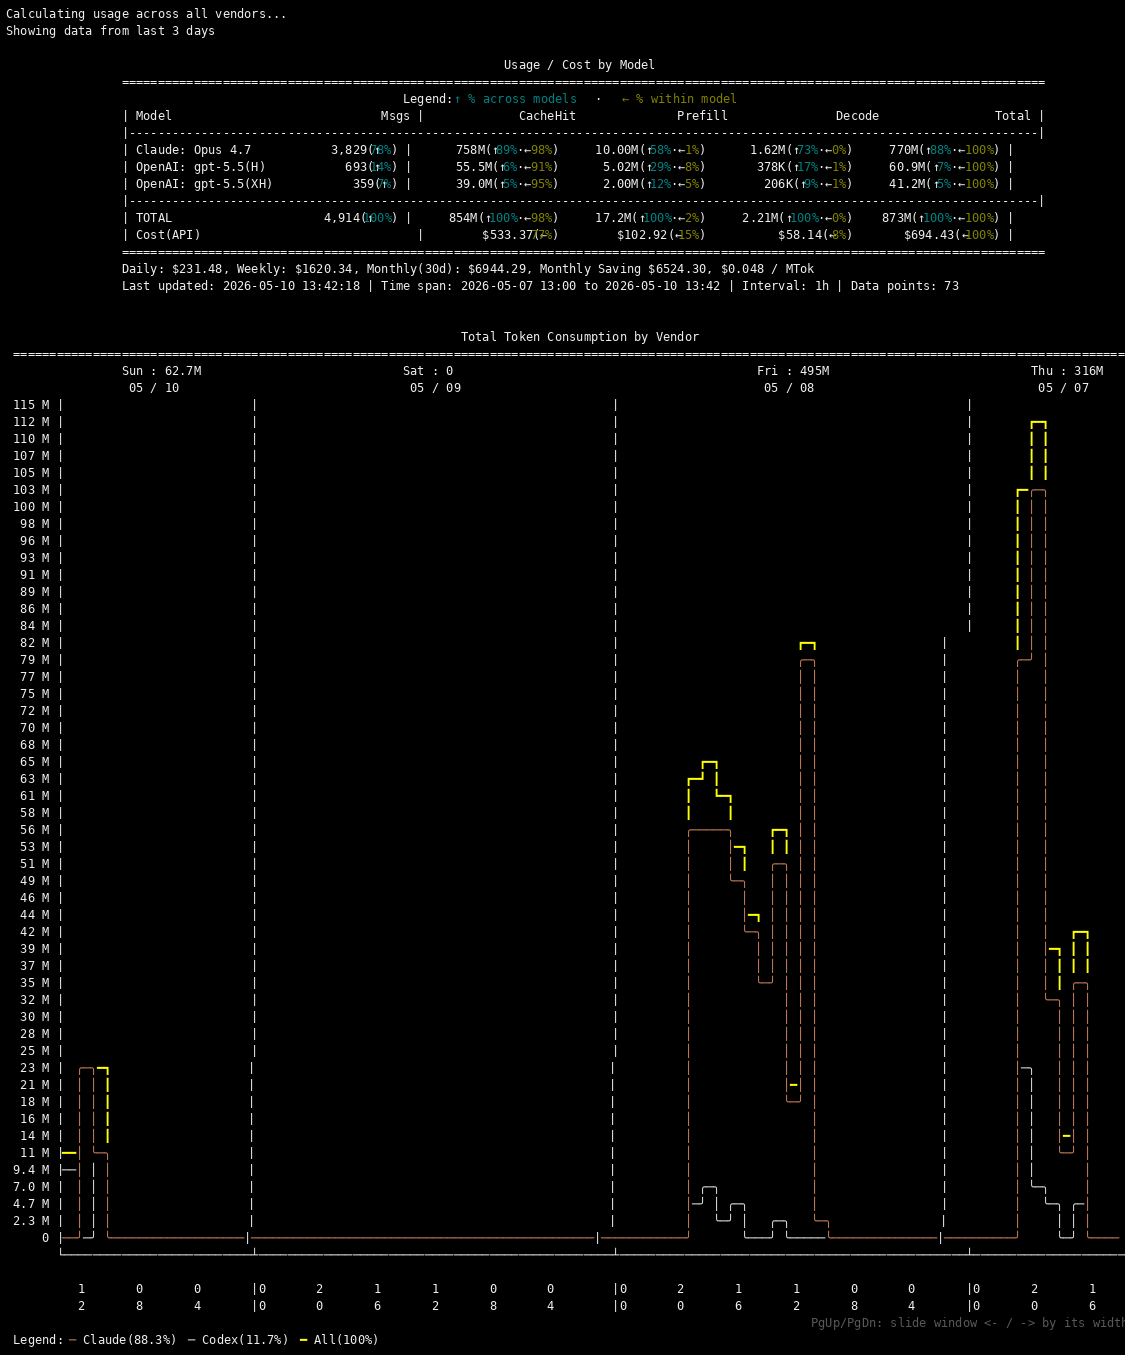
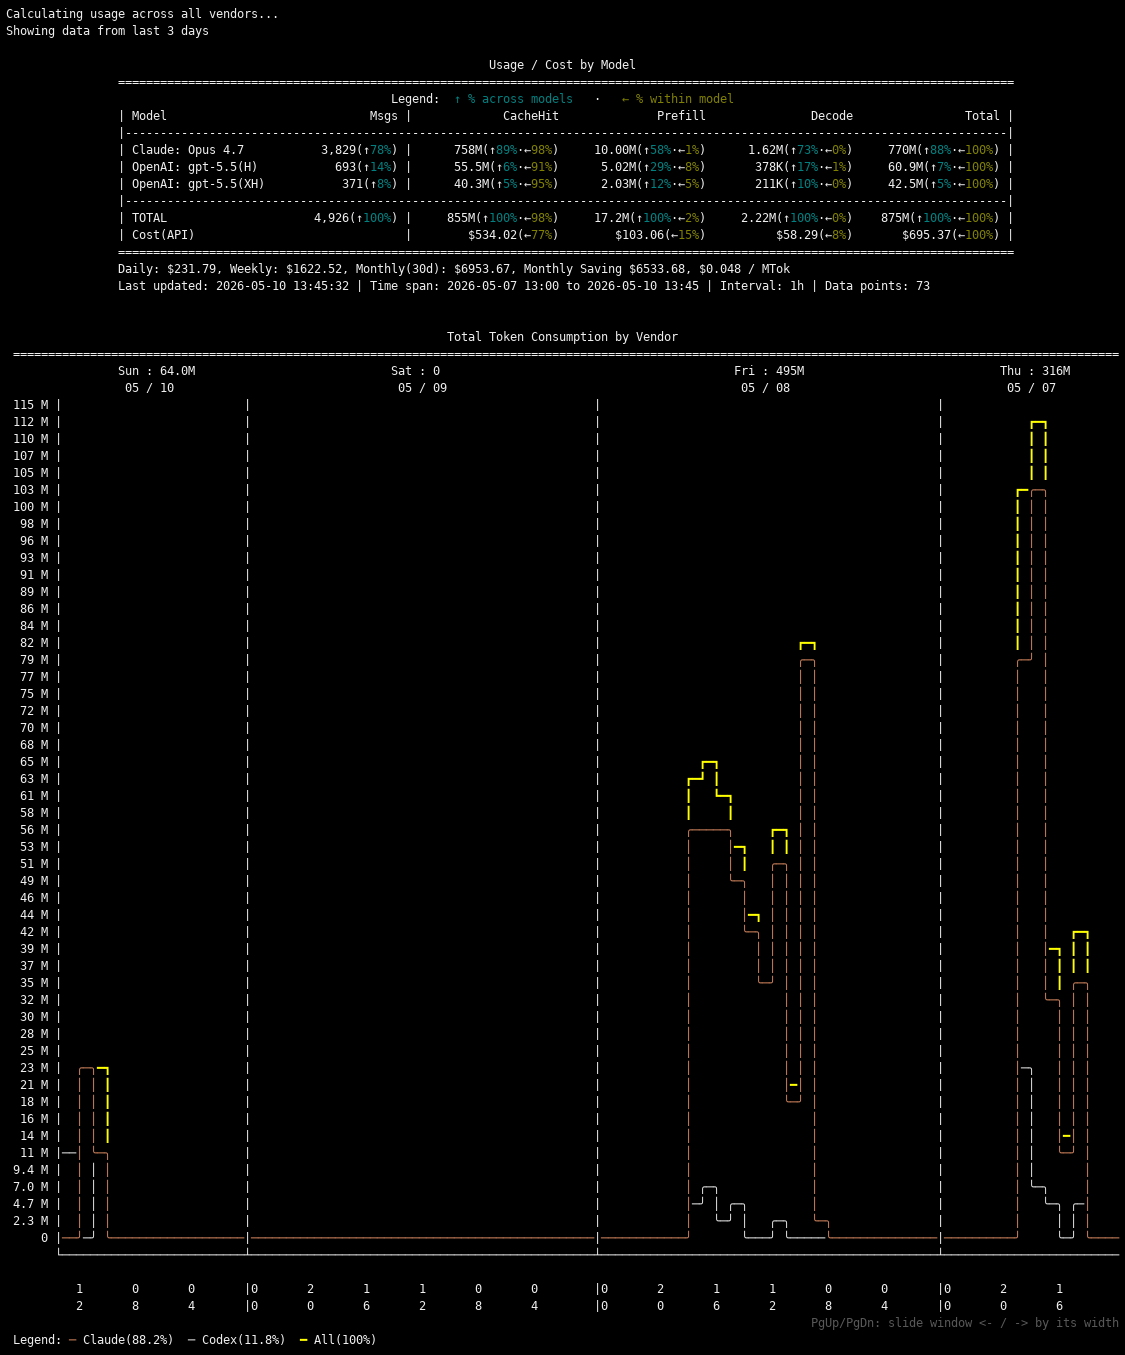
Render demo with fixed cell widths

diff --git a/scripts/render-demo.py b/scripts/render-demo.py
@@ -11,6 +11,11 @@ try:
 except ImportError as exc:
     raise SystemExit("Missing Python dependency: install Pillow to render docs/demo.png") from exc
 
+try:
+    from wcwidth import wcwidth
+except ImportError:
+    wcwidth = None
+
 
 DEFAULT_FG = (238, 238, 238)
 BG = (0, 0, 0)
@@ -174,7 +179,30 @@ def parse_ansi_line(line):
 
 
 def visible_len(line):
-    return len(ANSI_ANY_RE.sub("", line))
+    return cell_width(ANSI_ANY_RE.sub("", line))
+
+
+def char_cell_width(char):
+    if wcwidth is None:
+        return 0 if ord(char) < 32 else 1
+
+    width = wcwidth(char)
+    return max(width, 0)
+
+
+def cell_width(text):
+    return sum(char_cell_width(char) for char in text)
+
+
+def draw_cells(draw, origin_x, origin_y, text, font, fill, char_width):
+    x_cols = 0
+    for char in text:
+        width = char_cell_width(char)
+        if width == 0:
+            continue
+        draw.text((origin_x + x_cols * char_width, origin_y), char, font=font, fill=fill)
+        x_cols += width
+    return x_cols
 
 
 def render_png(ansi_text, output, font_path, font_size, padding):
@@ -202,8 +230,7 @@ def render_png(ansi_text, output, font_path, font_size, padding):
         x_cols = 0
         for text, fg, is_bold in parse_ansi_line(line):
             font = bold if is_bold else normal
-            draw.text((padding + x_cols * char_width, y), text, font=font, fill=fg)
-            x_cols += len(text)
+            x_cols += draw_cells(draw, padding + x_cols * char_width, y, text, font, fg, char_width)
         y += line_height
 
     output.parent.mkdir(parents=True, exist_ok=True)
